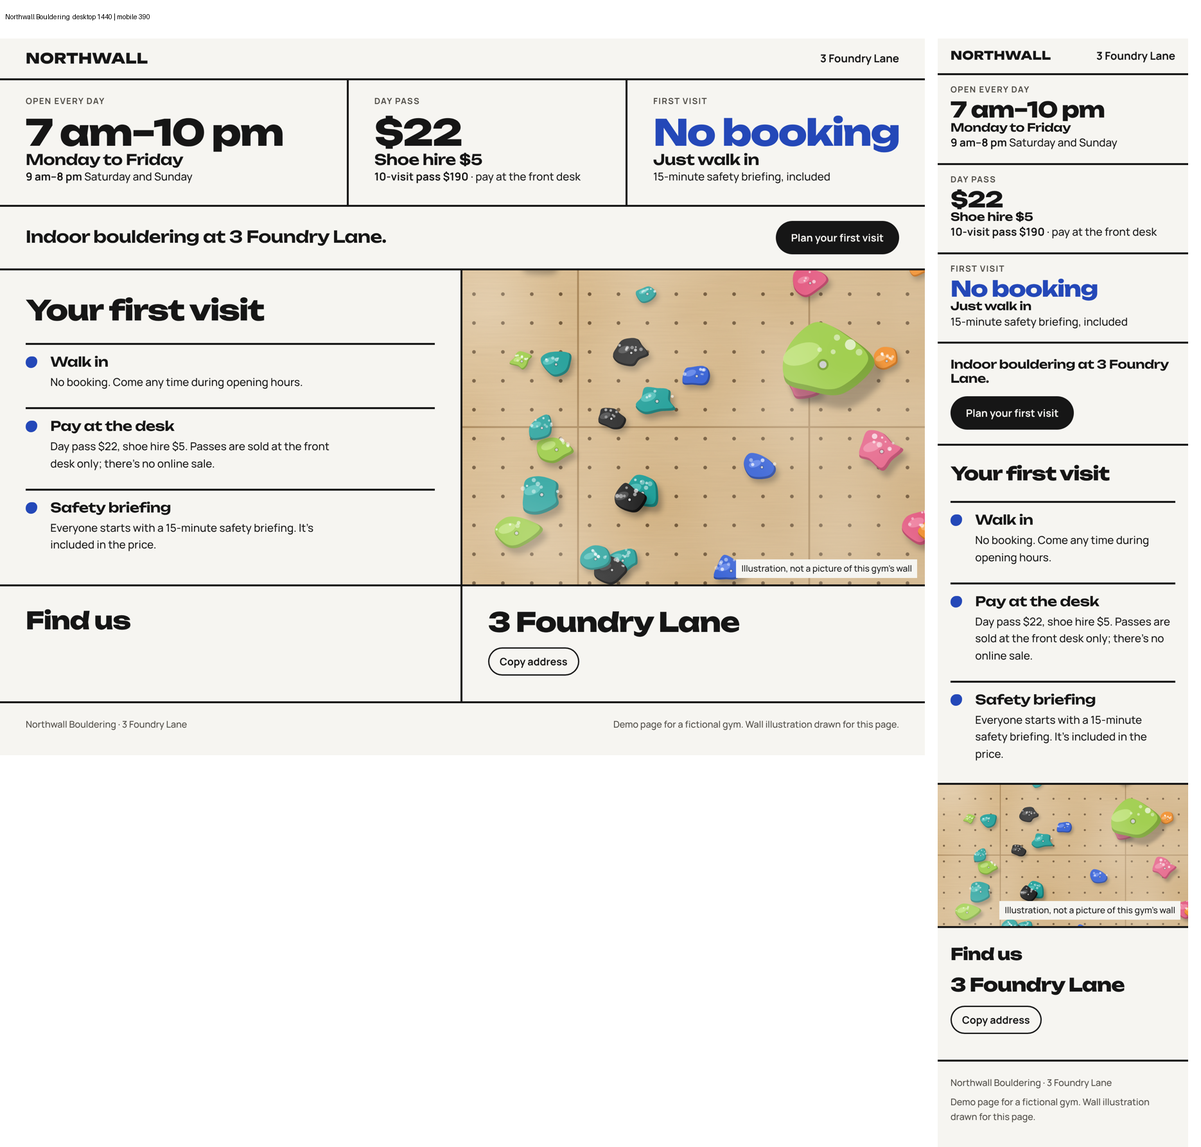
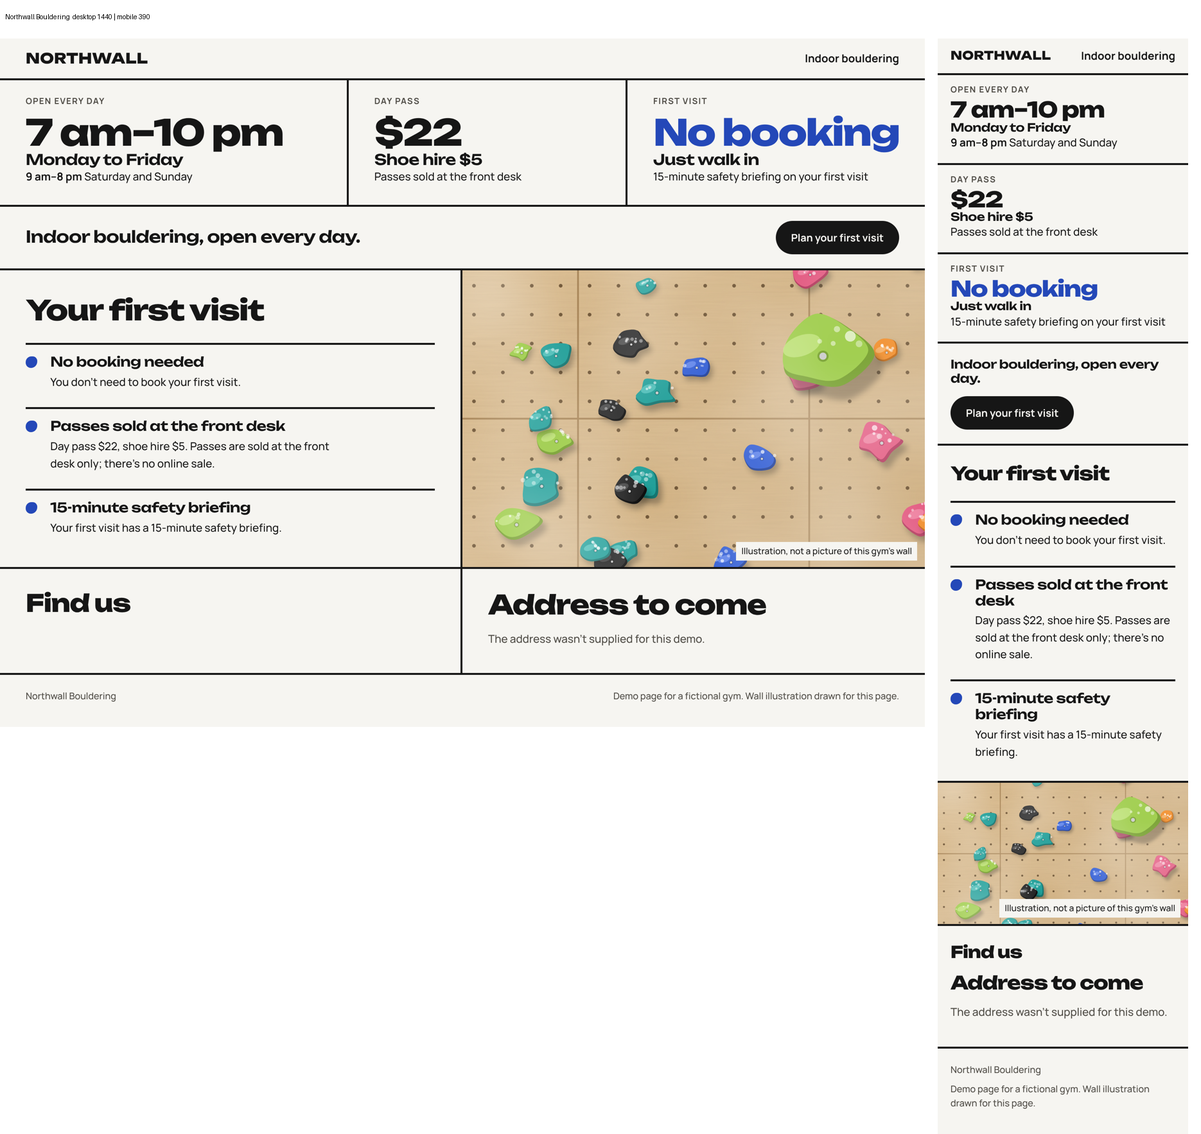
Design skill: judge art direction and genericness, not only findability
- Gate asks whether the page could belong to any business of its type and
  whether it relies on generic artwork, repeated blocks or type in place of
  a visual idea; illustration, bold type and simple layouts stay allowed
- Concepts must differ in art direction, each with a real-site reference
  and an honest plan for authentic material
- First screen needs the promise, next action and deciding facts with a
  clear path to the rest, not every essential
- Displayed facts must trace to the brief the user saw; delivery includes
  a fact audit; verb headings count as an implied sequence
- Northwall: removed the unsupplied address, $190 pass and 'included';
  DESIGN.md records the fact audit and that the visual test did not pass

Claude-Session: https://claude.ai/code/session_01DDE6raJnxGKK4DmQPpbiwZ

diff --git a/examples/fresh-test-northwall/index.html b/examples/fresh-test-northwall/index.html
@@ -3,8 +3,8 @@
 <head>
 <meta charset="utf-8">
 <meta name="viewport" content="width=device-width, initial-scale=1">
-<title>Northwall Bouldering · 3 Foundry Lane</title>
-<meta name="description" content="Independent indoor bouldering gym at 3 Foundry Lane. Day pass $22, no booking needed for your first visit.">
+<title>Northwall Bouldering</title>
+<meta name="description" content="Indoor bouldering gym. Day pass $22, and no booking needed for your first visit.">
 <style>
 @font-face { font-family: "Unbounded"; font-weight: 600; font-display: swap; src: url(fonts/unbounded-latin-600-normal.woff2) format("woff2"); }
 @font-face { font-family: "Unbounded"; font-weight: 800; font-display: swap; src: url(fonts/unbounded-latin-800-normal.woff2) format("woff2"); }
@@ -90,7 +90,7 @@ footer { padding: 22px var(--pad) 36px; display: flex; justify-content: space-be
 <body>
 <header class="top">
   <p class="brand">NORTHWALL</p>
-  <p class="where">3 Foundry Lane</p>
+  <p class="where">Indoor bouldering</p>
 </header>
 
 <main>
@@ -105,18 +105,18 @@ footer { padding: 22px var(--pad) 36px; display: flex; justify-content: space-be
       <h2>Day pass</h2>
       <p class="big">$22</p>
       <p class="mid">Shoe hire $5</p>
-      <p><b>10-visit pass $190</b> · pay at the front desk</p>
+      <p>Passes sold at the front desk</p>
     </div>
     <div>
       <h2>First visit</h2>
       <p class="big blue">No booking</p>
       <p class="mid">Just walk in</p>
-      <p>15-minute safety briefing, included</p>
+      <p>15-minute safety briefing on your first visit</p>
     </div>
   </div>
 
   <div class="cta">
-    <p>Indoor bouldering at 3 Foundry Lane.</p>
+    <p>Indoor bouldering, open every day.</p>
     <a class="btn" href="#first-visit">Plan your first visit</a>
   </div>
 
@@ -125,9 +125,9 @@ footer { padding: 22px var(--pad) 36px; display: flex; justify-content: space-be
     <div class="visit-text">
       <h2>Your first visit</h2>
       <ul class="know">
-        <li><b>Walk in</b><p>No booking. Come any time during opening hours.</p></li>
-        <li><b>Pay at the desk</b><p>Day pass $22, shoe hire $5. Passes are sold at the front desk only; there's no online sale.</p></li>
-        <li><b>Safety briefing</b><p>Everyone starts with a 15-minute safety briefing. It's included in the price.</p></li>
+        <li><b>No booking needed</b><p>You don't need to book your first visit.</p></li>
+        <li><b>Passes sold at the front desk</b><p>Day pass $22, shoe hire $5. Passes are sold at the front desk only; there's no online sale.</p></li>
+        <li><b>15-minute safety briefing</b><p>Your first visit has a 15-minute safety briefing.</p></li>
       </ul>
     </div>
     <figure class="wall">
@@ -139,24 +139,16 @@ footer { padding: 22px var(--pad) 36px; display: flex; justify-content: space-be
   <section class="part" id="find">
     <h2>Find us</h2>
     <div class="body">
-      <p class="addr">3 Foundry Lane</p>
-      <button class="btn alt" type="button" id="copy">Copy address</button> <span class="copied" aria-live="polite"></span>
+      <p class="addr">Address to come</p>
+      <p class="note">The address wasn't supplied for this demo.</p>
     </div>
   </section>
 </main>
 
 <footer>
-  <span>Northwall Bouldering · 3 Foundry Lane</span>
+  <span>Northwall Bouldering</span>
   <span>Demo page for a fictional gym. Wall illustration drawn for this page.</span>
 </footer>
 
-<script>
-document.getElementById("copy").addEventListener("click", async () => {
-  const out = document.querySelector(".copied");
-  try { await navigator.clipboard.writeText("3 Foundry Lane"); out.textContent = "Copied"; }
-  catch { out.textContent = "Copy failed"; }
-  setTimeout(() => { out.textContent = ""; }, 2500);
-});
-</script>
 </body>
 </html>

diff --git a/examples/fresh-test-northwall/n2-front-desk.html b/examples/fresh-test-northwall/n2-front-desk.html
@@ -18,9 +18,9 @@
 .strip { height: 46vh; min-height: 300px; overflow: hidden; } .strip img { width: 100%; height: 100%; object-fit: cover; display: block; }
 .cta { display: flex; justify-content: space-between; align-items: center; padding: 22px 40px; gap: 16px; flex-wrap: wrap; font: 600 1.4rem/1.2 var(--disp); }
 @media (max-width: 760px) { .top, .cta { padding: 16px 20px; } .board { grid-template-columns: 1fr; } .board > div { border-right: 0; border-bottom: 3px solid var(--black); padding: 20px; } .big { font-size: 2.2rem; } .strip { height: 200px; min-height: 0; } .cta { font-size: 1.1rem; } }
-</style></head><body><header class="top"><span class="brand">NORTHWALL</span><span>3 Foundry Lane</span></header>
+</style></head><body><header class="top"><span class="brand">NORTHWALL</span><span>Indoor bouldering</span></header>
 <section class="board"><div><h2>Open</h2><p class="big">7 am–10 pm</p><p>Monday to Friday · 9 am–8 pm Saturday and Sunday</p></div>
-<div><h2>Day pass</h2><p class="big">$22</p><p>Shoe hire $5 · 10 visits $190</p></div>
-<div><h2>First visit</h2><p class="big">15 min</p><p>Safety briefing, included. No booking needed.</p></div></section>
+<div><h2>Day pass</h2><p class="big">$22</p><p>Shoe hire $5 · passes sold at the desk</p></div>
+<div><h2>First visit</h2><p class="big">15 min</p><p>Safety briefing. No booking needed.</p></div></section>
 <div class="strip"><img src="art/wall-strip.svg" alt="Illustration of a bouldering wall"></div>
 <div class="cta"><span>Walk in, pay at the desk, climb.</span><a class="btn" href="#">Plan your first visit</a></div></body></html>

diff --git a/examples/fresh-test-northwall/n3-split-route.html b/examples/fresh-test-northwall/n3-split-route.html
@@ -19,10 +19,9 @@ dt { font: 700 .78rem/1.4 var(--body); text-transform: uppercase; letter-spacing
 .acts { display: flex; gap: 12px; flex-wrap: wrap; }
 .right { position: relative; overflow: hidden; } .right img { position: absolute; inset: 0; width: 100%; height: 100%; object-fit: cover; }
 @media (max-width: 760px) { .wrap { grid-template-columns: 1fr; } .left { padding: 20px 20px 28px; } h1 { margin: 28px 0 18px; font-size: 2.3rem; } .facts { grid-template-columns: 1fr 1fr; gap: 14px 16px; } .right { height: 260px; } }
-</style></head><body><div class="wrap"><div class="left"><p class="brand">NORTHWALL</p><h1>Climb today on <span>Foundry Lane.</span></h1><dl class="facts">
+</style></head><body><div class="wrap"><div class="left"><p class="brand">NORTHWALL</p><h1>Climb today at <span>Northwall.</span></h1><dl class="facts">
   <div><dt>Hours</dt><dd>Mon–Fri 7 am–10 pm<br>Sat–Sun 9 am–8 pm</dd></div>
   <div><dt>Day pass</dt><dd><b>$22</b> · shoe hire $5</dd></div>
-  <div><dt>First visit</dt><dd>15-minute safety briefing, included. No booking needed.</dd></div>
-  <div><dt>Address</dt><dd>3 Foundry Lane</dd></div>
-</dl><div class="acts"><a class="btn" href="#">Plan your first visit</a><a class="btn alt" href="#">Copy address</a></div></div>
+  <div><dt>First visit</dt><dd>15-minute safety briefing. No booking needed.</dd></div>
+</dl><div class="acts"><a class="btn" href="#">Plan your first visit</a></div></div>
 <div class="right"><img src="art/wall-tall.svg" alt="Illustration of a bouldering wall"></div></div></body></html>

diff --git a/examples/fresh-test-northwall/n1-full-wall.html b/examples/fresh-test-northwall/n1-full-wall.html
@@ -16,9 +16,8 @@ h1 { font: 800 2.6rem/1 var(--disp); margin: 0 0 16px; letter-spacing: -.02em; }
 .facts { margin: 0 0 20px; display: grid; gap: 10px; } .facts div { display: grid; grid-template-columns: 6.5rem 1fr; gap: 8px; border-top: 1px solid #ddd8cd; padding-top: 10px; }
 dt { font: 700 .8rem/1.6 var(--body); text-transform: uppercase; letter-spacing: .08em; color: var(--muted); } dd { margin: 0; }
 @media (max-width: 760px) { .hero > img { position: relative; height: 240px; } .card { margin: 0; box-shadow: none; padding: 22px 20px; max-width: none; } h1 { font-size: 1.9rem; } }
-</style></head><body><section class="hero"><img src="art/wall-wide.svg" alt="Illustration of a bouldering wall"><div class="card"><p class="brand">NORTHWALL</p><h1>Bouldering on Foundry Lane</h1><dl class="facts">
+</style></head><body><section class="hero"><img src="art/wall-wide.svg" alt="Illustration of a bouldering wall"><div class="card"><p class="brand">NORTHWALL</p><h1>Indoor bouldering, open every day</h1><dl class="facts">
   <div><dt>Hours</dt><dd>Mon–Fri 7 am–10 pm<br>Sat–Sun 9 am–8 pm</dd></div>
   <div><dt>Day pass</dt><dd><b>$22</b> · shoe hire $5</dd></div>
-  <div><dt>First visit</dt><dd>15-minute safety briefing, included. No booking needed.</dd></div>
-  <div><dt>Address</dt><dd>3 Foundry Lane</dd></div>
+  <div><dt>First visit</dt><dd>15-minute safety briefing. No booking needed.</dd></div>
 </dl><a class="btn" href="#">Plan your first visit</a></div></section></body></html>

diff --git a/skills/antislop-design/SKILL.md b/skills/antislop-design/SKILL.md
@@ -103,7 +103,13 @@ decision depends on. They differ by site type: for a café, opening hours, addre
 what's served; for a shop, the product, its price and how to choose; for a service, the
 price, the area and the request action; for a magazine, a headline worth opening; for a
 tool, what it does and a way to try it. Every concept and every render is checked against
-this list.
+this list, but the list is not a quota for the first screen (see step 2).
+
+**Fact sources.** Every fact the page displays (prices, addresses, hours, inclusions,
+policies, sequences) must trace to what the user supplied. When you write a test brief
+yourself, show the user the full brief before building; a fact that appears only in your
+notes counts as invented. Before delivery, list each displayed fact beside its source and
+remove or label anything without one.
 
 ### Check the content can carry the task
 
@@ -171,27 +177,43 @@ mood) and what you will not copy (brand, photographs, exact layout).
    cards only for genuine peers. Vary the structures down the page.
 6. **Effects budget.** Every gradient, glass surface, glow, shadow style and animation you
    plan to use, each with its reason. At most one effect as a focal point per view.
+7. **Art direction and material plan.** The visual idea that makes this business, not its
+   category, recognizable; the real site that informed it and what it borrows; the
+   authentic material it depends on (whose photos, of what, shot how) and how that will
+   be obtained; what stands in until then, labeled as a stand-in. When visitors judge a
+   physical place, product or person, say plainly that a stand-in cannot do that job and
+   record the missing material as an unresolved content need.
 
 When the user has no reference and no preference, offer two or three distinct concepts, or
-pick one and say why. Record the chosen concept in `DESIGN.md` so later work stays
+pick one and say why. **Concepts must differ in art direction, not arrangement**: in the
+visual idea, the kind of material and how it is treated (documentary photography, a
+specific illustration hand, signage or wayfinding, found material, a typographic system
+drawn from the place). Three layouts of the same typeface, palette and artwork are one
+concept. Test: swap the layouts between two concepts; if they still look like the same
+brand, they are arrangements. Record the chosen concept in `DESIGN.md` so later work stays
 consistent.
 
 **Judge each concept as an identity and as a website.** Render every concept at desktop
 and mobile before comparing them, and score both:
 
-- *Identity:* is it specific to this subject, memorable, and still recognizable with the
-  logo covered?
-- *Usability:* are the essentials in the first screen at both sizes, set as primary or
-  secondary text (not caption-sized labels), readable without depending on what's behind
-  them, and is the primary action visible?
+- *Identity:* is it specific to this business, memorable, and still recognizable with the
+  logo covered? Could it belong to any business of this type? Polished type and a tidy
+  grid around generic artwork is not identity.
+- *Usability:* at both sizes, are the **main promise**, the **next action** and the
+  **one or two facts that decide whether to continue** easy to find and read (primary or
+  secondary text, not caption-sized labels, not dependent on what's behind them)? Is
+  there a clear path to the rest: a visible action, or the next section starting in view?
 
-A striking poster, attractive illustration or new palette does not make up for an
-essential that is buried, tiny or unreadable. Only recommend a concept that passes
-usability; identity decides between the ones that pass. If a favorite fails usability,
-revise it before recommending it. Concepts may differ in how prominent the art is, but
-not in whether the visitor can find what they came for. Where the task is exploratory
-(a portfolio, a magazine, a gallery), the essential can be a clear entry point into the
-work rather than facts. `scripts/first_screen.js` measures this:
+The first screen does not have to hold every essential. Cramming all of them in, above
+all on mobile, turns the page into an information sheet and squeezes out the visual
+idea. Put the deciding facts up front and the rest one clear step away. A striking
+poster, attractive illustration or new palette does not make up for a decisive fact that
+is buried, tiny or unreadable. Only recommend a concept that passes usability; identity
+decides between the ones that pass. If a favorite fails usability, revise it before
+recommending it. Where the task is exploratory (a portfolio, a magazine, a gallery), the
+deciding element can be a clear entry point into the work rather than facts.
+`scripts/first_screen.js` reports where each fact lands; read a "below fold" result as a
+question (is there a clear path to it?), not an automatic failure:
 
 ```bash
 node scripts/first_screen.js page.html "8 am" "Willow Street" "Copy address"
@@ -255,8 +277,9 @@ skip lines carrying `unslop-ignore`.
   request" or "Preview request", not "Send"; its result says "checked", not "sent". A
   disabled purchase becomes a working "Add to demo bag" or a "Preview" with a label that
   says what it does, rather than a dead end.
-- Don't number steps or draw a sequence the brief doesn't state. "Pay, then briefing" is
-  a claim; if the order isn't known, list the points without numbers.
+- Don't imply a sequence the brief doesn't state. Numbers, arrows, and a row of verb
+  headings ("Walk in / Pay / Briefing") all read as steps. If the order isn't known,
+  present independent facts ("No booking needed", "Passes sold at the front desk").
 - Imagery follows [references/assets.md](references/assets.md). Never invent photographs,
   people, customers or results. Never leave an empty image slot.
 - Original illustration or a concept render must have the same conviction, scale and
@@ -282,8 +305,12 @@ take screenshots and look at them. Batch your looking: note everything wrong in 
 
 Then judge the actual visual result:
 
-1. Does it feel like this kind of place or product? Compare it with the real sites you
-   studied in step 2.
+1. Does it feel like this particular place or product, not only its category? Compare it
+   with the real sites you studied in step 2. **Could this page belong to any business of
+   this type? Does it rely on generic generated artwork, repeated blocks, or typography
+   used in place of a real visual idea?** Illustration, bold type and simple layouts are
+   all fine when they carry an idea specific to this business; they fail when they are
+   the default filling for its category.
 2. Is there enough authentic visual material, or is the page leaning on decoration to
    fill the space? Does the material have a deliberate role?
 3. Inspect the full composition: is there a clear **focal point**? Is the **whitespace**
@@ -293,8 +320,9 @@ Then judge the actual visual result:
    (the next decision, detail, evidence), or does it restate each essential as its own
    identical section until the page reads like a spec sheet?
 4. Does it look good at the real viewport sizes, including what is visible before
-   scrolling? Does the opening claim, or the art, push the essentials below the fold on
-   mobile? Are the essentials set as readable text rather than small decorative labels?
+   scrolling? On mobile, are the promise, next action and deciding facts easy to find,
+   with a clear path to the rest, without the first screen collapsing into a fact sheet?
+   Are those facts set as readable text rather than small decorative labels?
 5. **Does the first screen feel finished?** If the result only passes the checklist but
    still feels unfinished (a layout awaiting a photo, a schematic standing in for a
    product, warnings louder than content), it fails.
@@ -421,6 +449,8 @@ Give the user, briefly:
 8. **Defaults departed from** in step 7, with the reason.
 9. **Anything not checked** (no browser, no real device, no network), stated plainly
    rather than implied as passing.
+10. **Fact audit.** Each displayed fact with its source in the user's brief, and
+    anything removed or labeled because it had none.
 
 For `audit` without edits, report instead: the verdict on the central test, the visual
 gate answers, the eight-pattern table, up to three generic decisions with suggested replacements (or none), quality-check failures with

diff --git a/examples/fresh-test-northwall/DESIGN.md b/examples/fresh-test-northwall/DESIGN.md
@@ -6,26 +6,28 @@ type, without borrowing Juniper's look.
 
 ## Brief
 
-Northwall Bouldering, an independent indoor bouldering gym at 3 Foundry Lane.
+Claude wrote this test brief itself. Only a one-line summary was shown to the user:
+an indoor climbing gym; hours; day pass $22; shoe hire $5; a 15-minute safety briefing with
+no booking; passes sold only at the desk. Claude's notes also held an address
+(3 Foundry Lane), a $190 10-visit pass and "briefing included in the price". Those were
+never shown to the user, so they count as invented and have been removed (see Fact audit).
 
-- Open Monday to Friday 7 am to 10 pm, Saturday and Sunday 9 am to 8 pm.
-- Day pass $22, shoe hire $5, 10-visit pass $190.
-- First visit: a 15-minute safety briefing, included, no booking needed.
-- Passes are bought at the front desk; there's no online sale.
-- No photos, logo, colours or style supplied. No reviews, member counts or route grades.
-
+Hours used: Monday to Friday 7 am to 10 pm, Saturday and Sunday 9 am to 8 pm.
 Visitor's decision: can I go today, what will it cost, what happens the first time?
 Primary action: plan a first visit.
 
 ## Essentials (Step 1)
 
 Today's hours, the day pass price with shoe hire, "no booking needed" with the briefing,
-and the address. Primary action label: "Plan your first visit".
+and (originally) the address, which was later removed as unsupplied. Primary action label: "Plan your first visit".
 
 ## Concepts, judged on both axes (Step 2)
 
 Measured with `node scripts/first_screen.js <page> "7 am" "$22" "briefing" "Foundry Lane" "Plan your first visit"`.
-Board: `screenshots/northwall-concepts.png`.
+Board: `screenshots/northwall-concepts.png` (re-rendered after the fact audit, so the
+address and $190 no longer appear). The table records the original judgment. In hindsight
+it overrated concept 2's identity: all three concepts share one typeface, palette and wall
+illustration, so they are arrangements of one art direction, not three concepts.
 
 | Concept | Usability | Identity | Verdict |
 |---|---|---|---|
@@ -35,7 +37,7 @@ Board: `screenshots/northwall-concepts.png`.
 
 Fixes carried into the build from concept 2: "7 am–10 pm" no longer wraps mid-time; weekend
 hours on their own line; the big figure in the first-visit panel is "No booking" (the fact
-that decides it), not "15 min"; a working Copy address action.
+that decides it), not "15 min"; a working Copy address action (later removed with the unsupplied address).
 
 ## Build and revisions
 
@@ -49,11 +51,13 @@ Revisions after rendering the full page:
 1. The lower half repeated the board as four identical label-and-content rows (first
    visit, prices, hours, find us), so hours, prices and "No booking" each appeared twice
    and the page read as a spec sheet. Removed the Prices and Hours sections and moved the
-   10-visit price onto the board.
+   10-visit price onto the board (later removed as unsupplied).
 2. The wall illustration was a decorative strip between sections. Moved it beside the
    first-visit points, where it shows a first-timer the kind of wall they'll meet.
 3. The first-visit points were numbered 1–3, which claims an order (pay, then briefing)
-   the brief doesn't state. Now an unordered list.
+   the brief doesn't state. An unordered list with verb headings still read as steps, so
+   they are now independent facts: "No booking needed", "Passes sold at the front desk",
+   "15-minute safety briefing".
 
 ## Assets
 
@@ -63,30 +67,58 @@ wall" on the image and in the footer. No photos used; Wikimedia Commons was rate
 throughout this session, so no attempt was made here. Fonts are Unbounded and Manrope,
 self-hosted from @fontsource.
 
+## Fact audit
+
+| Displayed | Source | Status |
+|---|---|---|
+| Indoor bouldering | "indoor climbing gym" | Kept |
+| Hours, "open every day" | Hours in the brief cover all seven days | Kept |
+| Day pass $22, shoe hire $5 | Brief | Kept |
+| No booking needed, 15-minute briefing on the first visit | Brief | Kept |
+| Passes sold at the front desk, no online sale | "passes sold only at the desk" | Kept |
+| 3 Foundry Lane, Copy address | Not shown to the user | Removed; Find us says "Address to come" |
+| 10-visit pass $190 | Not shown to the user | Removed |
+| Briefing "included in the price" | Not shown to the user | Removed |
+| "Independent" (meta description) | Not supplied | Removed |
+| "Come any time during opening hours", "Everyone starts with a briefing" | Inferences beyond the brief | Removed |
+| "Walk in / Pay at the desk / Safety briefing" as headings | Read as a sequence the brief doesn't give | Replaced with independent facts |
+
+## Verdict on the visual test: not passed
+
+The page is clear but looks generated: a generic vector climbing wall beside oversized
+numbers and repeated ruled panels. It reads as a price sheet that any climbing gym could
+use. The three concepts rearranged the same type, palette and wall artwork, so the
+concept stage never compared art directions. The rule that every essential sat in the
+first screen also pushed mobile towards an information sheet. These failures produced
+the skill changes in that commit (art direction per concept, the "could this belong to
+any business of this type" gate question, promise/action/deciding facts instead of every
+essential, and the fact audit). The page was deliberately not redesigned to pass.
+
+A real pass would need art direction from this gym's own material: photographs of its
+walls, setters, desk and the people who climb there, or a visual idea drawn from
+something specific to it. None of that was supplied.
+
 ## Distinct from Juniper?
 
-Yes. Juniper's concepts used cream paper, serif type (Bodoni, Caslon), riso, engraving
-and painterly food still lifes. Northwall uses a heavy wide grotesque, thick black rules,
-numbers as the largest elements and a cobalt accent, with the art in its own section, not
-behind the text.
+In surface style, yes. That is not enough: it avoided Juniper's look by switching to
+another category default, not by finding an idea specific to this gym.
 
 ## What works, what's still weak
 
-- Works: the first screen answers all three questions at both sizes, and the board makes
-  that answer the identity rather than a strip under a poster.
-- Weak: on mobile the first screen has no imagery, so identity rests on type and rules
-  alone. The Find us row on desktop leaves its left half mostly empty. The wall is a
-  convincing generic wall, not this gym, so it can't help a visitor judge the gym itself.
+- Works: the first screen answers the visitor's three questions at both sizes.
+- Weak: generic illustrated wall; numbers and ruled panels standing in for a visual idea;
+  the page could belong to any bouldering gym.
 
 ## What the page can and cannot do
 
 - Can: show hours, prices and the first-visit facts as given; jump to the first-visit
-  section; copy the address to the clipboard.
+  section.
 - Cannot: sell passes (there's no online sale, so there's no buy button); say whether the
   gym is open right now (no time zone given, and the device clock isn't used).
 
 ## Unresolved content needs
 
+- The address.
 - Photos of the real walls, desk and briefing area.
 - What the briefing covers, what to wear, age rules, and whether pay comes before or after
   the briefing.
